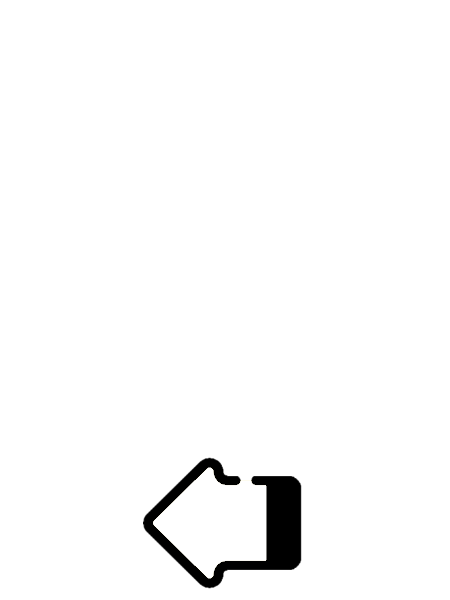
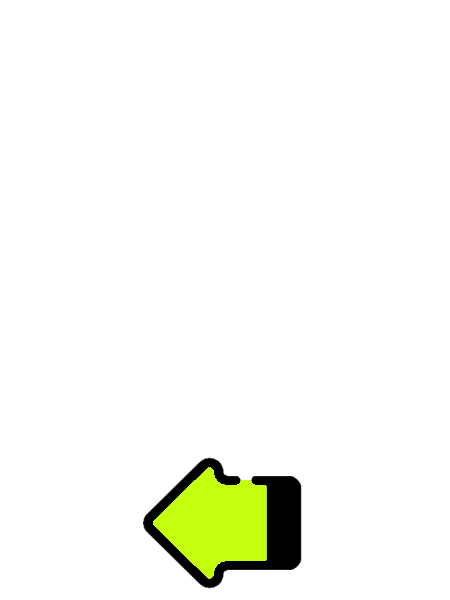
fix

Changed region(s): [[0.3422, 0.78, 0.5911, 0.96]]

diff --git a/selfdrive/ui/qt/sidebar.cc b/selfdrive/ui/qt/sidebar.cc
@@ -69,7 +69,7 @@ Sidebar::Sidebar(QWidget *parent) : QFrame(parent), onroad(false), flag_pressed(
     {12, {"jade_theme", {QColor(179, 141, 64)}}},
     {13, {"baja_theme", {QColor(44, 234, 163)}}},
     {14, {"torch_theme", {QColor(255, 238, 50)}}},
-    {15, {"blood_theme", {QColor(255, 238, 50)}}},
+    {15, {"blood_theme", {QColor(153, 0, 0)}}},
     {16, {"bumble_theme", {QColor(255, 238, 50)}}},
     {17, {"purp_theme", {QColor(98, 0, 255)}}}
   };
